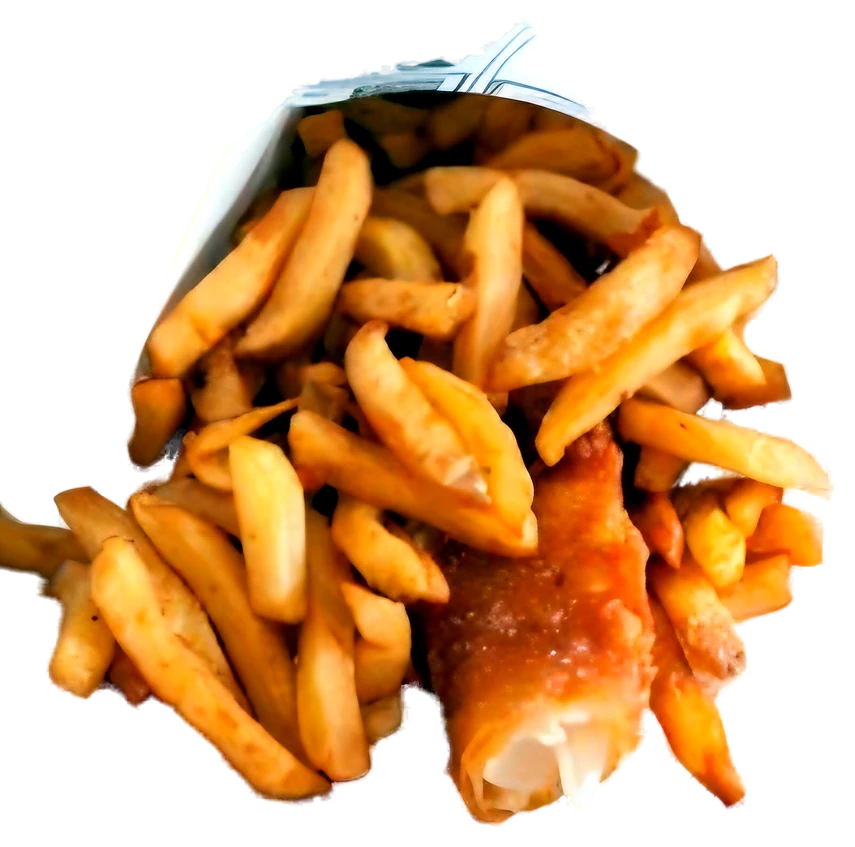
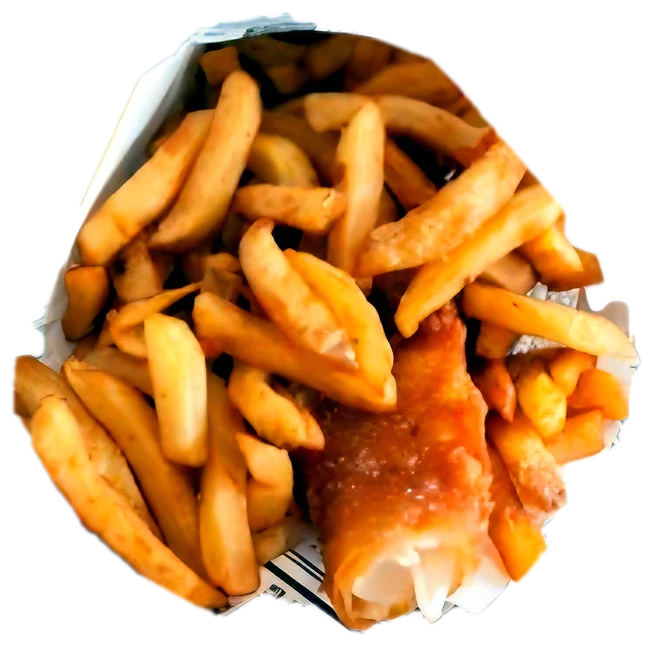
Détourage qui garde les barquettes et contenants ; carte Atipik avec le même design que le Famous Bus (or sur olive)
Claude-Session: https://claude.ai/code/session_01BZEdPAjhxHxVL9fpVvtEa9

diff --git a/index.html b/index.html
@@ -70,7 +70,7 @@
 <section class="section stars" id="stars">
   <div class="wrap">
     <h2 class="center">Les <em>incontournables</em></h2>
-    <ul class="star-row"><li class="star"><button type="button" class="star-btn" aria-expanded="false" aria-controls="pop-0"><span class="studio"><img class="cut" src="img/cut-smash.webp" alt="Smash Burger" width="835" height="738" loading="lazy"></span><span class="star-name">Smash Burger</span><span class="star-more" aria-hidden="true">+</span></button><div class="star-pop" id="pop-0"><b>Smash Burger</b><span>Cheddar fondu, salade fraîche.</span><em>9,50 €</em><a class="btn btn-sm" href="https://www.thefamousbus.fr/?page_id=1825" target="_blank" rel="noopener">Commander</a></div></li><li class="star"><button type="button" class="star-btn" aria-expanded="false" aria-controls="pop-1"><span class="studio"><img class="cut" src="img/cut-fish-chips.webp" alt="Fish and Chips" width="855" height="847" loading="lazy"></span><span class="star-name">Fish and Chips</span><span class="star-more" aria-hidden="true">+</span></button><div class="star-pop" id="pop-1"><b>Fish and Chips</b><span>Sauce tartare maison.</span><em>12,50 €</em><a class="btn btn-sm" href="https://www.thefamousbus.fr/?page_id=1825" target="_blank" rel="noopener">Commander</a></div></li><li class="star"><button type="button" class="star-btn" aria-expanded="false" aria-controls="pop-2"><span class="studio"><img class="cut" src="img/cut-smoke-fries.webp" alt="Smoke Fries" width="738" height="451" loading="lazy"></span><span class="star-name">Smoke Fries</span><span class="star-more" aria-hidden="true">+</span></button><div class="star-pop" id="pop-2"><b>Smoke Fries</b><span>Pulled beef ou pork fumé.</span><em>dès 9,50 €</em><a class="btn btn-sm" href="https://www.thefamousbus.fr/?page_id=1825" target="_blank" rel="noopener">Commander</a></div></li><li class="star"><button type="button" class="star-btn" aria-expanded="false" aria-controls="pop-3"><span class="studio"><img class="cut" src="img/cut-burger-pulled2.webp" alt="Nos burgers" width="816" height="771" loading="lazy"></span><span class="star-name">Nos burgers</span><span class="star-more" aria-hidden="true">+</span></button><div class="star-pop" id="pop-3"><b>Nos burgers</b><span>Bun brioché bio, sauces maison.</span><em>dès 9,50 €</em><a class="btn btn-sm" href="https://www.thefamousbus.fr/?page_id=1825" target="_blank" rel="noopener">Commander</a></div></li><li class="star"><button type="button" class="star-btn" aria-expanded="false" aria-controls="pop-4"><span class="studio"><img class="cut" src="img/cut-frites-cheddar2.webp" alt="Frites sauce cheddar" width="878" height="397" loading="lazy"></span><span class="star-name">Frites sauce cheddar</span><span class="star-more" aria-hidden="true">+</span></button><div class="star-pop" id="pop-4"><b>Frites sauce cheddar</b><span>Sauce cheddar fondante.</span><em>6,50 €</em><a class="btn btn-sm" href="https://www.thefamousbus.fr/?page_id=1825" target="_blank" rel="noopener">Commander</a></div></li><li class="star"><button type="button" class="star-btn" aria-expanded="false" aria-controls="pop-5"><span class="studio"><img class="cut" src="img/cut-burger-cheddar.webp" alt="Le Cochon" width="880" height="729" loading="lazy"></span><span class="star-name">Le Cochon</span><span class="star-more" aria-hidden="true">+</span></button><div class="star-pop" id="pop-5"><b>Le Cochon</b><span>Le burger au porc.</span><em>10 €</em><a class="btn btn-sm" href="https://www.thefamousbus.fr/?page_id=1825" target="_blank" rel="noopener">Commander</a></div></li></ul>
+    <ul class="star-row"><li class="star"><button type="button" class="star-btn" aria-expanded="false" aria-controls="pop-0"><span class="studio"><img class="cut" src="img/cut-smash.webp" alt="Smash Burger" width="835" height="738" loading="lazy"></span><span class="star-name">Smash Burger</span><span class="star-more" aria-hidden="true">+</span></button><div class="star-pop" id="pop-0"><b>Smash Burger</b><span>Cheddar fondu, salade fraîche.</span><em>9,50 €</em><a class="btn btn-sm" href="https://www.thefamousbus.fr/?page_id=1825" target="_blank" rel="noopener">Commander</a></div></li><li class="star"><button type="button" class="star-btn" aria-expanded="false" aria-controls="pop-1"><span class="studio"><img class="cut" src="img/cut-fish-chips.webp" alt="Fish and Chips" width="653" height="645" loading="lazy"></span><span class="star-name">Fish and Chips</span><span class="star-more" aria-hidden="true">+</span></button><div class="star-pop" id="pop-1"><b>Fish and Chips</b><span>Sauce tartare maison.</span><em>12,50 €</em><a class="btn btn-sm" href="https://www.thefamousbus.fr/?page_id=1825" target="_blank" rel="noopener">Commander</a></div></li><li class="star"><button type="button" class="star-btn" aria-expanded="false" aria-controls="pop-2"><span class="studio"><img class="cut" src="img/cut-smoke-fries.webp" alt="Smoke Fries" width="646" height="379" loading="lazy"></span><span class="star-name">Smoke Fries</span><span class="star-more" aria-hidden="true">+</span></button><div class="star-pop" id="pop-2"><b>Smoke Fries</b><span>Pulled beef ou pork fumé.</span><em>dès 9,50 €</em><a class="btn btn-sm" href="https://www.thefamousbus.fr/?page_id=1825" target="_blank" rel="noopener">Commander</a></div></li><li class="star"><button type="button" class="star-btn" aria-expanded="false" aria-controls="pop-3"><span class="studio"><img class="cut" src="img/cut-burger-pulled2.webp" alt="Nos burgers" width="816" height="771" loading="lazy"></span><span class="star-name">Nos burgers</span><span class="star-more" aria-hidden="true">+</span></button><div class="star-pop" id="pop-3"><b>Nos burgers</b><span>Bun brioché bio, sauces maison.</span><em>dès 9,50 €</em><a class="btn btn-sm" href="https://www.thefamousbus.fr/?page_id=1825" target="_blank" rel="noopener">Commander</a></div></li><li class="star"><button type="button" class="star-btn" aria-expanded="false" aria-controls="pop-4"><span class="studio"><img class="cut" src="img/cut-frites-cheddar2.webp" alt="Frites sauce cheddar" width="714" height="319" loading="lazy"></span><span class="star-name">Frites sauce cheddar</span><span class="star-more" aria-hidden="true">+</span></button><div class="star-pop" id="pop-4"><b>Frites sauce cheddar</b><span>Sauce cheddar fondante.</span><em>6,50 €</em><a class="btn btn-sm" href="https://www.thefamousbus.fr/?page_id=1825" target="_blank" rel="noopener">Commander</a></div></li><li class="star"><button type="button" class="star-btn" aria-expanded="false" aria-controls="pop-5"><span class="studio"><img class="cut" src="img/cut-burger-cheddar.webp" alt="Le Cochon" width="880" height="729" loading="lazy"></span><span class="star-name">Le Cochon</span><span class="star-more" aria-hidden="true">+</span></button><div class="star-pop" id="pop-5"><b>Le Cochon</b><span>Le burger au porc.</span><em>10 €</em><a class="btn btn-sm" href="https://www.thefamousbus.fr/?page_id=1825" target="_blank" rel="noopener">Commander</a></div></li></ul>
     <p class="hint center">Touchez pour découvrir</p>
   </div>
 </section>
@@ -117,12 +117,12 @@
     </div>
 
     <div class="panel" id="carte-famous" role="tabpanel" aria-labelledby="tab-famous">
-      <nav class="cat-nav" aria-label="Catégories"><a href="#cat-burgers">Burgers</a><a href="#cat-plats">Plats fumés</a><a href="#cat-sides">Accompagnements</a><a href="#cat-desserts">Desserts</a><a href="#cat-boissons">Boissons</a></nav><section class="cat" id="cat-burgers"><h3>Burgers</h3><ul class="dishes"><li class="dish"><div class="dish-media studio"><img class="cut" src="img/cut-burger-pulled2.webp" alt="Ô la Vache" width="816" height="771" loading="lazy"></div><span class="badge">Pulled beef</span><span class="price">11<small>€</small></span><div class="dish-body"><h4>Ô la Vache</h4><p>Pulled beef, cheddar, sauce deluxe</p></div></li><li class="dish"><div class="dish-media ico studio"><svg viewBox="0 0 64 64" aria-hidden="true"><path d="M10 28c0-10 9-16 22-16s22 6 22 16z"/><path d="M10 36h44M12 36c3 3 6 3 9 0s6-3 9 0 6 3 9 0 6-3 9 0"/><path d="M10 42h44v3a6 6 0 0 1-6 6H16a6 6 0 0 1-6-6z"/></svg></div><span class="badge">Mozzarella fumée</span><span class="price">9,50<small>€</small></span><div class="dish-body"><h4>Ça Mozz</h4><p>Mozzarella fumée, curry maison</p></div></li><li class="dish"><div class="dish-media studio"><img class="cut" src="img/cut-smash.webp" alt="Smash Burger" width="835" height="738" loading="lazy"></div><span class="price">9,50<small>€</small></span><div class="dish-body"><h4>Smash Burger</h4></div></li><li class="dish"><div class="dish-media ico studio"><svg viewBox="0 0 64 64" aria-hidden="true"><path d="M10 28c0-10 9-16 22-16s22 6 22 16z"/><path d="M10 36h44M12 36c3 3 6 3 9 0s6-3 9 0 6 3 9 0 6-3 9 0"/><path d="M10 42h44v3a6 6 0 0 1-6 6H16a6 6 0 0 1-6-6z"/></svg></div><span class="price">10<small>€</small></span><div class="dish-body"><h4>S’il vous Poulet</h4></div></li><li class="dish"><div class="dish-media studio"><img class="cut" src="img/cut-burger-cheddar.webp" alt="Le Cochon" width="880" height="729" loading="lazy"></div><span class="price">10<small>€</small></span><div class="dish-body"><h4>Le Cochon</h4></div></li></ul></section><section class="cat" id="cat-plats"><h3>Plats fumés</h3><ul class="dishes"><li class="dish"><div class="dish-media studio"><img class="cut" src="img/cut-smoke-fries.webp" alt="Smoke Fries Pulled Beef" width="738" height="451" loading="lazy"></div><span class="badge">Fumé maison</span><span class="price">10<small>€</small></span><div class="dish-body"><h4>Smoke Fries Pulled Beef</h4><p>Pulled beef fumé BBQ</p></div></li><li class="dish"><div class="dish-media ico studio"><svg viewBox="0 0 64 64" aria-hidden="true"><path d="M16 30h32l-3 24H19z"/><path d="M20 30l-2-14M27 30l-1-18M34 30V10M41 30l2-17M47 30l2-12"/></svg></div><span class="badge">Fumé maison</span><span class="price">9,50<small>€</small></span><div class="dish-body"><h4>Smoke Fries Pulled Pork</h4><p>Pulled pork fumé</p></div></li><li class="dish"><div class="dish-media studio"><img class="cut" src="img/cut-fish-chips.webp" alt="Fish and Chips" width="855" height="847" loading="lazy"></div><span class="price">12,50<small>€</small></span><div class="dish-body"><h4>Fish and Chips</h4><p>Sauce tartare maison</p></div></li><li class="dish"><div class="dish-media ico studio"><svg viewBox="0 0 64 64" aria-hidden="true"><path d="M8 40c0-6 6-10 24-10s24 4 24 10-6 10-24 10S8 46 8 40z"/><path d="M14 36c6-4 10 4 16 0s10 4 16 0"/><path d="M32 6v22"/></svg></div><span class="price">9<small>€</small></span><div class="dish-body"><h4>Corn dog</h4></div></li></ul></section><section class="cat" id="cat-sides"><h3>Accompagnements</h3><ul class="dishes"><li class="dish"><div class="dish-media ico studio"><svg viewBox="0 0 64 64" aria-hidden="true"><path d="M16 30h32l-3 24H19z"/><path d="M20 30l-2-14M27 30l-1-18M34 30V10M41 30l2-17M47 30l2-12"/></svg></div><span class="price">4,50<small>€</small></span><div class="dish-body"><h4>Frites maison</h4></div></li><li class="dish"><div class="dish-media studio"><img class="cut" src="img/cut-frites-cheddar2.webp" alt="Frites sauce cheddar" width="878" height="397" loading="lazy"></div><span class="price">6,50<small>€</small></span><div class="dish-body"><h4>Frites sauce cheddar</h4></div></li></ul></section><section class="cat" id="cat-desserts"><h3>Desserts</h3><ul class="dishes"><li class="dish"><div class="dish-media studio"><img class="cut" src="img/cut-cookies.webp" alt="Cookie maison" width="412" height="833" loading="lazy"></div><span class="badge">Maison</span><span class="price">3<small>€</small></span><div class="dish-body"><h4>Cookie maison</h4></div></li><li class="dish"><div class="dish-media ico studio"><svg viewBox="0 0 64 64" aria-hidden="true"><path d="M8 46L32 20l24 26z"/><path d="M8 46h48v6H8z"/><path d="M22 36l4 4M34 30l4 5"/></svg></div><span class="badge">Maison</span><span class="price">3,50<small>€</small></span><div class="dish-body"><h4>Cheesecake maison</h4></div></li></ul></section><section class="cat" id="cat-boissons"><h3>Boissons</h3><ul class="drinks"><li><svg viewBox="0 0 64 64" aria-hidden="true"><path d="M18 16h28l-4 38H22z"/><path d="M14 16h36M34 16l6-10"/><path d="M22 30h20"/></svg><div><b>Bière locale blonde UINIS</b><small>33 cl</small></div><span>5<small>€</small></span></li><li><svg viewBox="0 0 64 64" aria-hidden="true"><path d="M18 16h28l-4 38H22z"/><path d="M14 16h36M34 16l6-10"/><path d="M22 30h20"/></svg><div><b>Bière locale brune La Riboterie</b><small>33 cl</small></div><span>5<small>€</small></span></li><li><svg viewBox="0 0 64 64" aria-hidden="true"><path d="M18 16h28l-4 38H22z"/><path d="M14 16h36M34 16l6-10"/><path d="M22 30h20"/></svg><div><b>Coca-Cola · Coca-Cola Zero · Fuze Tea</b><small>33 cl</small></div><span>2<small>€</small></span></li><li><svg viewBox="0 0 64 64" aria-hidden="true"><path d="M18 16h28l-4 38H22z"/><path d="M14 16h36M34 16l6-10"/><path d="M22 30h20"/></svg><div><b>Eau plate ou gazeuse</b><small>50 cl</small></div><span>1,50<small>€</small></span></li></ul></section>
+      <nav class="cat-nav" aria-label="Catégories"><a href="#cat-burgers">Burgers</a><a href="#cat-plats">Plats fumés</a><a href="#cat-sides">Accompagnements</a><a href="#cat-desserts">Desserts</a><a href="#cat-boissons">Boissons</a></nav><section class="cat" id="cat-burgers"><h3>Burgers</h3><ul class="dishes"><li class="dish"><div class="dish-media studio"><img class="cut" src="img/cut-burger-pulled2.webp" alt="Ô la Vache" width="816" height="771" loading="lazy"></div><span class="badge">Pulled beef</span><span class="price">11<small>€</small></span><div class="dish-body"><h4>Ô la Vache</h4><p>Pulled beef, cheddar, sauce deluxe</p></div></li><li class="dish"><div class="dish-media ico studio"><svg viewBox="0 0 64 64" aria-hidden="true"><path d="M10 28c0-10 9-16 22-16s22 6 22 16z"/><path d="M10 36h44M12 36c3 3 6 3 9 0s6-3 9 0 6 3 9 0 6-3 9 0"/><path d="M10 42h44v3a6 6 0 0 1-6 6H16a6 6 0 0 1-6-6z"/></svg></div><span class="badge">Mozzarella fumée</span><span class="price">9,50<small>€</small></span><div class="dish-body"><h4>Ça Mozz</h4><p>Mozzarella fumée, curry maison</p></div></li><li class="dish"><div class="dish-media studio"><img class="cut" src="img/cut-smash.webp" alt="Smash Burger" width="835" height="738" loading="lazy"></div><span class="price">9,50<small>€</small></span><div class="dish-body"><h4>Smash Burger</h4></div></li><li class="dish"><div class="dish-media ico studio"><svg viewBox="0 0 64 64" aria-hidden="true"><path d="M10 28c0-10 9-16 22-16s22 6 22 16z"/><path d="M10 36h44M12 36c3 3 6 3 9 0s6-3 9 0 6 3 9 0 6-3 9 0"/><path d="M10 42h44v3a6 6 0 0 1-6 6H16a6 6 0 0 1-6-6z"/></svg></div><span class="price">10<small>€</small></span><div class="dish-body"><h4>S’il vous Poulet</h4></div></li><li class="dish"><div class="dish-media studio"><img class="cut" src="img/cut-burger-cheddar.webp" alt="Le Cochon" width="880" height="729" loading="lazy"></div><span class="price">10<small>€</small></span><div class="dish-body"><h4>Le Cochon</h4></div></li></ul></section><section class="cat" id="cat-plats"><h3>Plats fumés</h3><ul class="dishes"><li class="dish"><div class="dish-media studio"><img class="cut" src="img/cut-smoke-fries.webp" alt="Smoke Fries Pulled Beef" width="646" height="379" loading="lazy"></div><span class="badge">Fumé maison</span><span class="price">10<small>€</small></span><div class="dish-body"><h4>Smoke Fries Pulled Beef</h4><p>Pulled beef fumé BBQ</p></div></li><li class="dish"><div class="dish-media ico studio"><svg viewBox="0 0 64 64" aria-hidden="true"><path d="M16 30h32l-3 24H19z"/><path d="M20 30l-2-14M27 30l-1-18M34 30V10M41 30l2-17M47 30l2-12"/></svg></div><span class="badge">Fumé maison</span><span class="price">9,50<small>€</small></span><div class="dish-body"><h4>Smoke Fries Pulled Pork</h4><p>Pulled pork fumé</p></div></li><li class="dish"><div class="dish-media studio"><img class="cut" src="img/cut-fish-chips.webp" alt="Fish and Chips" width="653" height="645" loading="lazy"></div><span class="price">12,50<small>€</small></span><div class="dish-body"><h4>Fish and Chips</h4><p>Sauce tartare maison</p></div></li><li class="dish"><div class="dish-media ico studio"><svg viewBox="0 0 64 64" aria-hidden="true"><path d="M8 40c0-6 6-10 24-10s24 4 24 10-6 10-24 10S8 46 8 40z"/><path d="M14 36c6-4 10 4 16 0s10 4 16 0"/><path d="M32 6v22"/></svg></div><span class="price">9<small>€</small></span><div class="dish-body"><h4>Corn dog</h4></div></li></ul></section><section class="cat" id="cat-sides"><h3>Accompagnements</h3><ul class="dishes"><li class="dish"><div class="dish-media ico studio"><svg viewBox="0 0 64 64" aria-hidden="true"><path d="M16 30h32l-3 24H19z"/><path d="M20 30l-2-14M27 30l-1-18M34 30V10M41 30l2-17M47 30l2-12"/></svg></div><span class="price">4,50<small>€</small></span><div class="dish-body"><h4>Frites maison</h4></div></li><li class="dish"><div class="dish-media studio"><img class="cut" src="img/cut-frites-cheddar2.webp" alt="Frites sauce cheddar" width="714" height="319" loading="lazy"></div><span class="price">6,50<small>€</small></span><div class="dish-body"><h4>Frites sauce cheddar</h4></div></li></ul></section><section class="cat" id="cat-desserts"><h3>Desserts</h3><ul class="dishes"><li class="dish"><div class="dish-media studio"><img class="cut" src="img/cut-cookies.webp" alt="Cookie maison" width="412" height="833" loading="lazy"></div><span class="badge">Maison</span><span class="price">3<small>€</small></span><div class="dish-body"><h4>Cookie maison</h4></div></li><li class="dish"><div class="dish-media ico studio"><svg viewBox="0 0 64 64" aria-hidden="true"><path d="M8 46L32 20l24 26z"/><path d="M8 46h48v6H8z"/><path d="M22 36l4 4M34 30l4 5"/></svg></div><span class="badge">Maison</span><span class="price">3,50<small>€</small></span><div class="dish-body"><h4>Cheesecake maison</h4></div></li></ul></section><section class="cat" id="cat-boissons"><h3>Boissons</h3><ul class="drinks"><li><svg viewBox="0 0 64 64" aria-hidden="true"><path d="M18 16h28l-4 38H22z"/><path d="M14 16h36M34 16l6-10"/><path d="M22 30h20"/></svg><div><b>Bière locale blonde UINIS</b><small>33 cl</small></div><span>5<small>€</small></span></li><li><svg viewBox="0 0 64 64" aria-hidden="true"><path d="M18 16h28l-4 38H22z"/><path d="M14 16h36M34 16l6-10"/><path d="M22 30h20"/></svg><div><b>Bière locale brune La Riboterie</b><small>33 cl</small></div><span>5<small>€</small></span></li><li><svg viewBox="0 0 64 64" aria-hidden="true"><path d="M18 16h28l-4 38H22z"/><path d="M14 16h36M34 16l6-10"/><path d="M22 30h20"/></svg><div><b>Coca-Cola · Coca-Cola Zero · Fuze Tea</b><small>33 cl</small></div><span>2<small>€</small></span></li><li><svg viewBox="0 0 64 64" aria-hidden="true"><path d="M18 16h28l-4 38H22z"/><path d="M14 16h36M34 16l6-10"/><path d="M22 30h20"/></svg><div><b>Eau plate ou gazeuse</b><small>50 cl</small></div><span>1,50<small>€</small></span></li></ul></section>
       <p class="order"><a class="btn" href="https://www.thefamousbus.fr/?page_id=1825" target="_blank" rel="noopener">Commander en click &amp; collect</a></p>
     </div>
 
     <div class="panel" id="carte-atipik" role="tabpanel" aria-labelledby="tab-atipik" hidden>
-      <div class="atipik-cards"><figure><span class="studio gold"><img class="cut" src="img/cut-burger-papier.webp" alt="Burgers" width="583" height="471" loading="lazy"></span><figcaption>Burgers</figcaption></figure><figure><span class="studio gold"><img class="cut" src="img/cut-sandwich-frites.webp" alt="Sandwichs" width="799" height="489" loading="lazy"></span><figcaption>Sandwichs</figcaption></figure><figure><span class="studio gold"><img class="cut" src="img/cut-bowl.webp" alt="Bowls" width="762" height="900" loading="lazy"></span><figcaption>Bowls</figcaption></figure><figure><span class="studio gold"><img class="cut" src="img/cut-atipik-cordon.webp" alt="Croustillants" width="711" height="900" loading="lazy"></span><figcaption>Croustillants</figcaption></figure></div>
+      <section class="cat"><h3>Au menu</h3><ul class="dishes"><li class="dish"><div class="dish-media studio"><img class="cut" src="img/cut-burger-papier.webp" alt="Burgers" width="583" height="471" loading="lazy"></div><div class="dish-body"><h4>Burgers</h4><p>Pain brioché, viande effilochée, coleslaw</p></div></li><li class="dish"><div class="dish-media studio"><img class="cut" src="img/cut-sandwich-frites.webp" alt="Sandwichs" width="668" height="440" loading="lazy"></div><div class="dish-body"><h4>Sandwichs</h4><p>Au pastrami ou poulet, avec frites</p></div></li><li class="dish"><div class="dish-media studio"><img class="cut" src="img/cut-bowl.webp" alt="Bowls" width="800" height="800" loading="lazy"></div><div class="dish-body"><h4>Bowls</h4><p>Bœuf, légumes croquants, oignons frits</p></div></li><li class="dish"><div class="dish-media studio"><img class="cut" src="img/cut-atipik-cordon.webp" alt="Croustillants" width="800" height="800" loading="lazy"></div><div class="dish-body"><h4>Croustillants</h4><p>Cordons bleus, frites, coleslaw</p></div></li></ul></section>
       <p class="order"><a class="btn btn-gold" href="https://www.instagram.com/atipik.foodtruck/" target="_blank" rel="noopener">Menu du moment sur Instagram</a></p>
     </div>
   </div>

diff --git a/style.css b/style.css
@@ -396,3 +396,18 @@ footer i { color: var(--red); font-style: normal; padding: 0 6px; }
   .atipik-cards figcaption { font-size: 18px; padding: 30px 12px 10px; letter-spacing: .06em; }
   .atipik-cards figure img.cut { max-width: 86%; max-height: 58%; }
 }
+
+/* ====== Carte Atipik : même cartes que le Famous Bus, en or sur olive, police à empattement ====== */
+.menu[data-theme="atipik"] .dish { background: #f1e9d2; color: #1c1a0d; box-shadow: 0 10px 26px rgba(0,0,0,.4); }
+.menu[data-theme="atipik"] .dish h4 { font-family: "Cormorant Garamond", serif; font-weight: 600; font-size: 26px; letter-spacing: .08em; text-transform: uppercase; color: #1c1a0d; }
+.menu[data-theme="atipik"] .dish p { color: #5b563a; }
+.menu[data-theme="atipik"] .cat > h3 { font-family: "Cormorant Garamond", serif; font-weight: 600; letter-spacing: .14em; text-transform: uppercase; font-size: clamp(30px, 5vw, 46px); color: var(--gold-soft); }
+.menu[data-theme="atipik"] .cat > h3::after { background: repeating-linear-gradient(90deg, var(--gold) 0 14px, transparent 14px 22px); }
+.menu[data-theme="atipik"] .studio { background: radial-gradient(ellipse at 50% 36%, #6a6130 0%, #38341a 46%, #17160b 100%); }
+.menu[data-theme="atipik"] .studio::before { background: radial-gradient(circle, rgba(220,203,134,.24), rgba(220,203,134,0) 68%); border-color: rgba(220,203,134,.28); }
+.menu[data-theme="atipik"] .order { margin-top: 18px; }
+@media (max-width: 860px) { .menu[data-theme="atipik"] .dish h4 { font-size: 20px; letter-spacing: .05em; } }
+
+/* photos détourées toujours entières dans leur carte */
+.dish-media.studio img.cut { position: absolute; inset: 9% 8% 15%; width: 84%; height: 76%; max-width: none; max-height: none; margin: 0; object-fit: contain; }
+@media (max-width: 860px) { .dish-media.studio img.cut { inset: 14% 8% 12%; width: 84%; height: 74%; margin: 0; } }
